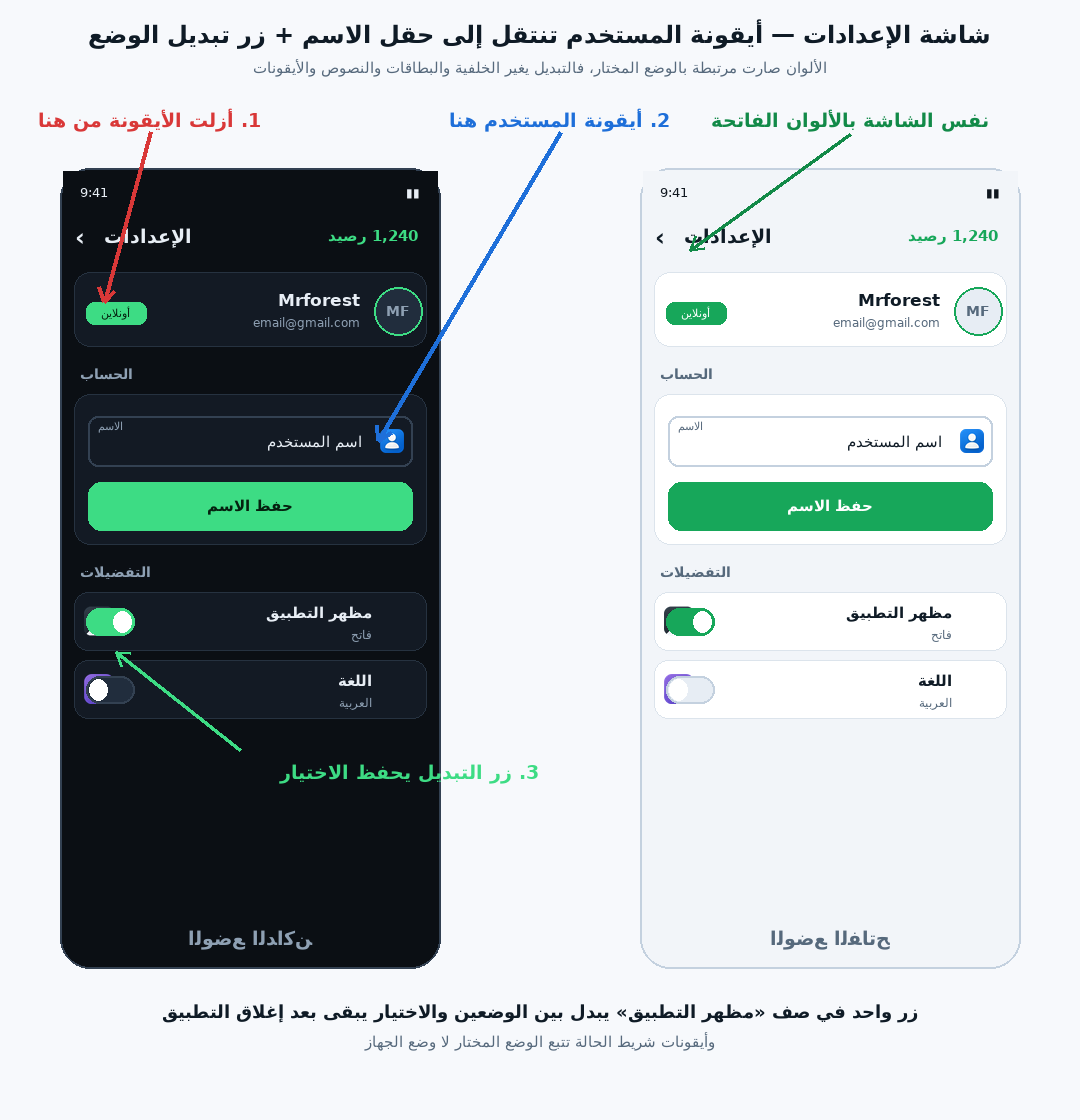
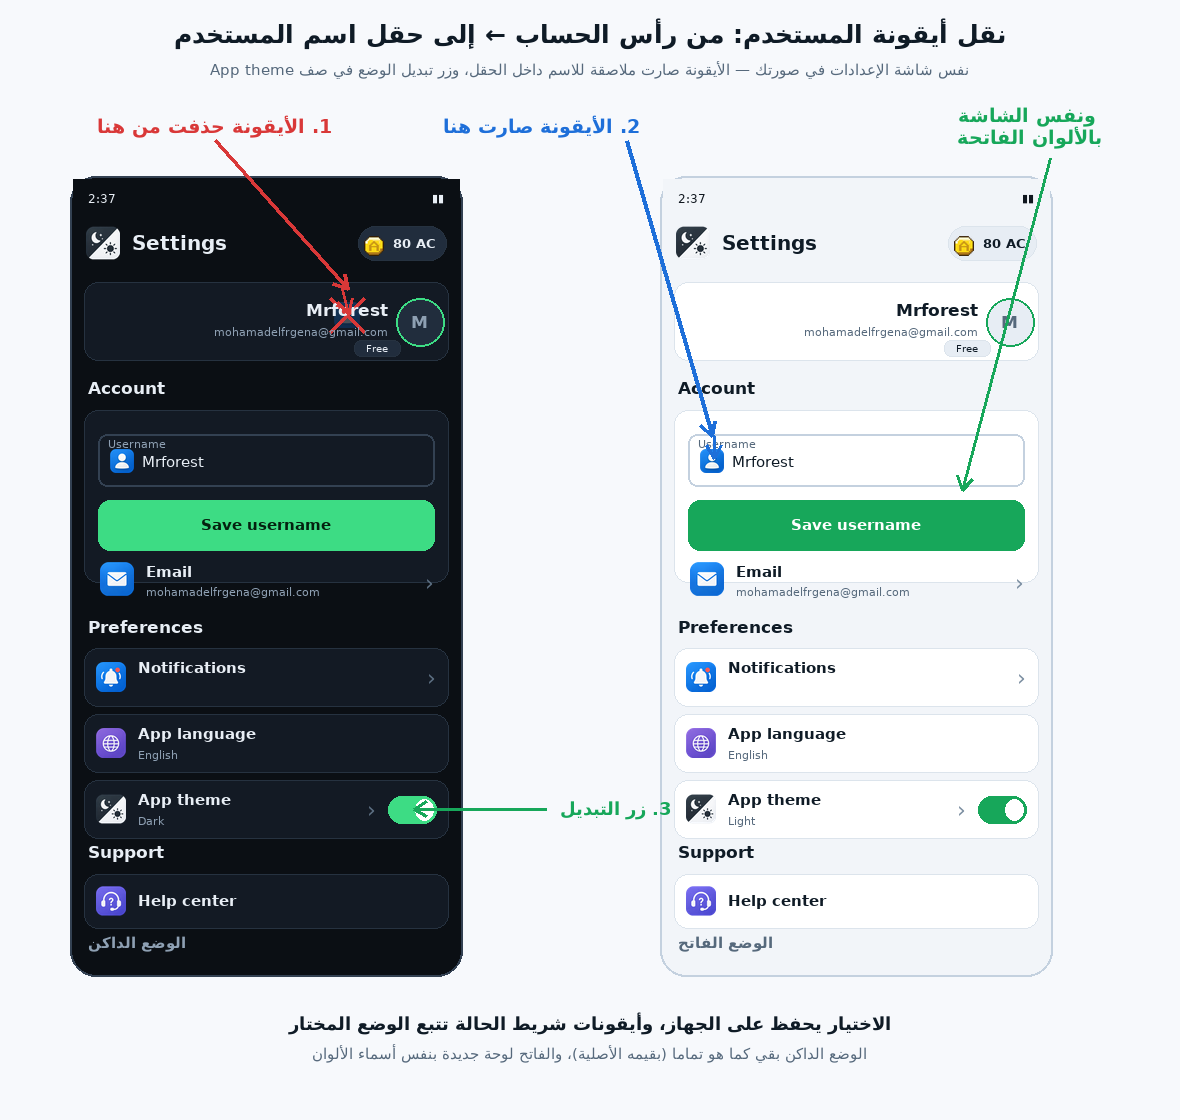
Redraw the theme-toggle preview to match the owner's screenshot
Same Settings screen and wording as the screenshot (English labels, the
same sections), with the three callouts: the removed user icon in the
account header, the icon now sitting right next to the typed username
inside the field, and the App theme toggle — plus the light palette.

diff --git a/tools/preview_theme_toggle.py b/tools/preview_theme_toggle.py
@@ -1,14 +1,13 @@
 #!/usr/bin/env python3
 # -*- coding: utf-8 -*-
-"""معاينة زر تبديل الوضع الداكن/الفاتح + نقل أيقونة المستخدم إلى حقل الاسم.
+"""معاينة نقل أيقونة المستخدم: من رأس الحساب ← إلى حقل اسم المستخدم + زر تبديل الوضع.
 
-يرسم نفس شاشة الإعدادات مرّتين:
-  1) بالوضع الداكن (الألوان كما هي في وثيقة التصميم).
-  2) بالوضع الفاتح (اللوحة الفاتحة الجديدة) — لإثبات أن التبديل يغيّر كل
-     الألوان فعلاً (الخلفية، البطاقات، النصوص، الأيقونات، شريط الحالة).
-ويضع أسهماً مطابقة للقبّطة: الأحمر عند رأس الحساب (أُزيلت منه الأيقونة)،
-والأزرق عند حقل تغيير الاسم (صارت أيقونة المستخدم بجواره).
-المصدر: Color.kt · Theme.kt · SettingsScreen.kt · AppNav.kt
+المحاكاة تطابق شاشة الإعدادات في لقطة المالك (نفس النصوص الإنجليزية ونفس الترتيب):
+  ① رأس الحساب: الأيقونة أُزيلت (يظهر مكانها ظلّها عليه خط أحمر).
+  ② حقل Username: أيقونة المستخدم صارت ملاصقة لاسم المستخدم المكتوب داخل الحقل.
+  ③ صف App theme: مفتاح تبديل فوري بين Dark و Light (والاختيار يُحفظ).
+ويمينها نفس الشاشة بالألوان الفاتحة لإثبات أن تبديل الوضع يغيّر كل الألوان.
+المصدر: SettingsScreen.kt · Color.kt · Theme.kt · AppNav.kt
 """
 import math
 import os
@@ -29,15 +28,17 @@ DARK = {
     "bg": "#0B0F14", "surface": "#131A24", "elev": "#1A2330", "elev2": "#212D3D",
     "border": "#263240", "border2": "#334152", "text": "#E8EEF5", "muted": "#8EA0B3",
     "dim": "#5C6F82", "green": "#3DDC84", "green2": "#2FAE67", "ongreen": "#04210F",
+    "blue": "#6FB8FF",
 }
 LIGHT = {
     "bg": "#F2F5F9", "surface": "#FFFFFF", "elev": "#FFFFFF", "elev2": "#E7EDF4",
     "border": "#DCE4EC", "border2": "#C4D1DF", "text": "#0F1B26", "muted": "#56697C",
     "dim": "#7B8EA1", "green": "#17A75A", "green2": "#128A48", "ongreen": "#FFFFFF",
+    "blue": "#1E6FD9",
 }
 
-W, H, TOP = 380, 800, 168
-RED, BLUE = "#D93838", "#1E6FD9"
+W, H, TOP = 392, 800, 176
+RED, BLUE, GRN = "#D93838", "#1E6FD9", "#17A75A"
 img = None
 d = None
 
@@ -61,105 +62,139 @@ def arrow(x1, y1, x2, y2, color, w=4):
         d.line([(x2, y2), (x2 - 15 * math.cos(a - s), y2 - 15 * math.sin(a - s))], fill=color, width=w)
 
 
-def note(x, y, color, text, anchor="mm"):
-    d.text((x, y), rtl(text), font=font(19, True), fill=color, anchor=anchor)
+def note(x, y, color, text, anchor="mm", size=19):
+    d.text((x, y), rtl(text), font=font(size, True), fill=color, anchor=anchor)
 
 
-def screen(x0, pal, mode, dark=True):
-    """هاتف بهيئة الوضع المطلوب (نفس المحتوى في اللقطتين)."""
-    w = W
-    x1 = x0 + w
-    rounded((x0, TOP, x1, TOP + H), 30, fill=pal["bg"], outline=pal["border2"], width=2)
+def icon(name, size):
+    im = Image.open(os.path.join(DRAW, name + ".png")).convert("RGBA")
+    return im.resize((size, size), Image.LANCZOS)
 
-    # شريط الحالة: أيقوناته تتبع الوضع (داكنة فوق خلفية فاتحة)
-    d.rectangle((x0 + 3, TOP + 3, x1 - 3, TOP + 46), fill=pal["bg"])
+
+def screen(x0, pal, dark=True, show_ghost=True):
+    """هاتف بنفس أقسام شاشة الإعدادات في لقطة المالك."""
+    x1 = x0 + W
+    rounded((x0, TOP, x1, TOP + H), 26, fill=pal["bg"], outline=pal["border2"], width=2)
+    d.rectangle((x0 + 3, TOP + 3, x1 - 3, TOP + 44), fill=pal["bg"])
     stat = pal["text"] if dark else "#10171F"
-    d.text((x0 + 20, TOP + 24), "9:41", font=font(13), fill=stat, anchor="lm")
-    d.text((x1 - 20, TOP + 24), "▮▮", font=font(12), fill=stat, anchor="rm")
+    d.text((x0 + 18, TOP + 22), "2:37", font=font(12), fill=stat, anchor="lm")
+    d.text((x1 - 18, TOP + 22), "▮▮", font=font(11), fill=stat, anchor="rm")
 
-    y = TOP + 46
-    d.text((x0 + 20, y + 22), "‹", font=font(24, True), fill=pal["text"], anchor="mm")
-    d.text((x0 + 44, y + 22), rtl("الإعدادات"), font=font(19, True), fill=pal["text"], anchor="lm")
-    d.text((x1 - 22, y + 22), rtl("1,240 رصيد"), font=font(15, True), fill=pal["green"], anchor="rm")
-    d.text((x0 + w // 2, TOP + H - 30), rtl(mode), font=font(19, True), fill=pal["muted"], anchor="mm")
+    y = TOP + 44
+    # شريط التطبيق
+    gb = icon("ic_set_appearance", 34)
+    img.paste(gb, (int(x0 + 16), int(y + 6)), gb)
+    d.text((x0 + 62, y + 23), "Settings", font=font(20, True), fill=pal["text"], anchor="lm")
+    rounded((x1 - 104, y + 6, x1 - 16, y + 40), 18, fill=pal["elev2"], outline=pal["border"])
+    coin = icon("coin_ac", 20)
+    img.paste(coin, (int(x1 - 98), int(y + 16)), coin)
+    d.text((x1 - 26, y + 23), "80 AC", font=font(13, True), fill=pal["text"], anchor="rm")
+    y += 62
+
+    # ① رأس الحساب — بلا أيقونة المستخدم (مكانها ظاهر بخط أحمر)
+    head_y = y
+    rounded((x0 + 14, y, x1 - 14, y + 78), 14, fill=pal["surface"], outline=pal["border"])
+    d.ellipse((x1 - 66, y + 16, x1 - 18, y + 64), fill=pal["elev2"], outline=pal["green"], width=2)
+    d.text((x1 - 42, y + 40), "M", font=font(17, True), fill=pal["muted"], anchor="mm")
+    # ظلّ الأيقونة القديمة + خط أحمر = مكانها الذي حُذفت منه
+    if show_ghost:
+        gh = icon("ic_user", 26).copy()
+        gh.putalpha(gh.getchannel("A").point(lambda v: int(v * 0.25)))
+        img.paste(gh, (int(x1 - 128), int(y + 20)), gh)
+        d.line([(x1 - 132, y + 16), (x1 - 98, y + 50)], fill=RED, width=3)
+        d.line([(x1 - 98, y + 16), (x1 - 132, y + 50)], fill=RED, width=3)
+    d.text((x1 - 74, y + 28), "Mrforest", font=font(17, True), fill=pal["text"], anchor="rm")
+    d.text((x1 - 74, y + 50), "mohamadelfrgena@gmail.com", font=font(11), fill=pal["muted"], anchor="rm")
+    rounded((x1 - 108, y + 58, x1 - 62, y + 74), 7, fill=pal["elev2"], outline=pal["border"])
+    d.text((x1 - 85, y + 66), "Free", font=font(10), fill=pal["text"], anchor="mm")
+    y += 100
+
+    # ② بطاقة الحساب — حقل اسم المستخدم وأيقونته ملاصقة للاسم
+    d.text((x0 + 18, y), "Account", font=font(17, True), fill=pal["text"], anchor="lt")
+    y += 28
+    rounded((x0 + 14, y, x1 - 14, y + 172), 14, fill=pal["surface"], outline=pal["border"])
+    fy = y + 50
+    d.rounded_rectangle((x0 + 28, fy - 26, x1 - 28, fy + 26), radius=9, outline=pal["border2"], width=2)
+    d.text((x0 + 38, fy - 16), "Username", font=font(11), fill=pal["muted"], anchor="lm")
+    # الأيقونة ملاصقة لاسم المستخدم المكتوب داخل الحقل
+    ic = icon("ic_user", 24)
+    img.paste(ic, (int(x0 + 40), int(fy - 11)), ic)
+    d.text((x0 + 72, fy + 2), "Mrforest", font=font(15), fill=pal["text"], anchor="lm")
+    y += 90
+    rounded((x0 + 28, y, x1 - 28, y + 50), 12, fill=pal["green"])
+    d.text(((x0 + x1) // 2, y + 25), "Save username", font=font(15, True), fill=pal["ongreen"], anchor="mm")
+    y += 62
+    em = icon("ic_set_email", 34)
+    img.paste(em, (int(x0 + 30), int(y)), em)
+    d.text((x0 + 76, y + 10), "Email", font=font(15, True), fill=pal["text"], anchor="lm")
+    d.text((x0 + 76, y + 30), "mohamadelfrgena@gmail.com", font=font(11), fill=pal["muted"], anchor="lm")
+    d.text((x1 - 32, y + 20), "›", font=font(22), fill=pal["dim"], anchor="mm")
     y += 58
 
-    # ① رأس الحساب — بلا أيقونة المستخدم
-    head_y = y
-    rounded((x0 + 14, y, x1 - 14, y + 74), 16, fill=pal["surface"], outline=pal["border"])
-    d.ellipse((x1 - 66, y + 15, x1 - 18, y + 63), fill=pal["elev2"], outline=pal["green"], width=2)
-    d.text((x1 - 42, y + 39), "MF", font=font(14, True), fill=pal["muted"], anchor="mm")
-    d.text((x1 - 80, y + 28), rtl("Mrforest"), font=font(17, True), fill=pal["text"], anchor="rm")
-    d.text((x1 - 80, y + 50), "email@gmail.com", font=font(12), fill=pal["muted"], anchor="rm")
-    rounded((x0 + 26, y + 30, x0 + 86, y + 52), 8, fill=pal["green"])
-    d.text((x0 + 56, y + 41), rtl("أونلاين"), font=font(11), fill=pal["ongreen"], anchor="mm")
-    y += 96
-
-    # ② بطاقة الحساب: حقل اسم المستخدم + أيقونة المستخدم
-    d.text((x0 + 20, y), rtl("الحساب"), font=font(14, True), fill=pal["muted"], anchor="lt")
-    y += 26
-    rounded((x0 + 14, y, x1 - 14, y + 150), 16, fill=pal["surface"], outline=pal["border"])
-    fy = y + 46
-    d.rounded_rectangle((x0 + 28, fy - 24, x1 - 28, fy + 26), radius=10, outline=pal["border2"], width=2)
-    icon = Image.open(os.path.join(DRAW, "ic_user.png")).convert("RGBA").resize((24, 24), Image.LANCZOS)
-    img.paste(icon, (int(x1 - 60), int(fy - 11)), icon)
-    d.text((x1 - 78, fy + 2), rtl("اسم المستخدم"), font=font(15), fill=pal["text"], anchor="rm")
-    d.text((x0 + 38, fy - 14), rtl("الاسم"), font=font(11), fill=pal["muted"], anchor="lm")
-    rounded((x0 + 28, y + 88, x1 - 28, y + 136), 13, fill=pal["green"])
-    d.text(((x0 + x1) // 2, y + 112), rtl("حفظ الاسم"), font=font(15, True), fill=pal["ongreen"], anchor="mm")
-    field_y = fy
-    y += 172
-
-    # ③ زر التبديل في صف «مظهر التطبيق»
-    d.text((x0 + 20, y), rtl("التفضيلات"), font=font(14, True), fill=pal["muted"], anchor="lt")
-    y += 26
-    switch_y = y
-    for label, sub, on, icon_name in (
-        (("مظهر التطبيق", "فاتح", True, "ic_set_appearance")),
-        (("اللغة", "العربية", False, "ic_set_language")),
-    ):
+    # ③ التفضيلات: مفتاح التبديل في صف App theme
+    d.text((x0 + 18, y), "Preferences", font=font(17, True), fill=pal["text"], anchor="lt")
+    y += 28
+    switch_y = None
+    for name, sub, ic_name, on in (("Notifications", "", "ic_set_notifications", False),
+                                   ("App language", "English", "ic_set_language", False),
+                                   ("App theme", "Dark" if dark else "Light", "ic_set_appearance", True)):
         rounded((x0 + 14, y, x1 - 14, y + 58), 14, fill=pal["surface"], outline=pal["border"])
-        im = Image.open(os.path.join(DRAW, icon_name + ".png")).convert("RGBA").resize((30, 30), Image.LANCZOS)
-        img.paste(im, (int(x0 + 24), int(y + 14)), im)
-        d.text((x1 - 68, y + 21), rtl(label), font=font(15, True), fill=pal["text"], anchor="rm")
-        d.text((x1 - 68, y + 42), rtl(sub), font=font(12), fill=pal["muted"], anchor="rm")
-        tw, th, tx, ty = 48, 27, x0 + 26, y + 16
-        rounded((tx, ty, tx + tw, ty + th), th // 2,
-                fill=pal["green"] if on else pal["elev2"],
-                outline=None if on else pal["border2"], width=2)
-        d.ellipse((tx + (tw - 21 if on else 3), ty + 3, tx + (tw - 3 if on else 21), ty + 24), fill="#FFFFFF")
-        y += 68
-    return {"head": (x0 + 44, head_y + 30), "field": (x0 + w - 62, field_y),
-            "switch": (x0 + 50, switch_y + 30)}
+        im = icon(ic_name, 30)
+        img.paste(im, (int(x0 + 26), int(y + 14)), im)
+        d.text((x0 + 68, y + 20), name, font=font(15, True), fill=pal["text"], anchor="lm")
+        if sub:
+            d.text((x0 + 68, y + 41), sub, font=font(11), fill=pal["muted"], anchor="lm")
+        else:
+            d.text((x1 - 30, y + 29), "›", font=font(22), fill=pal["dim"], anchor="mm")
+        if name == "App theme":
+            switch_y = y + 29
+            tw, th, tx, ty = 48, 27, x1 - 74, y + 16
+            rounded((tx, ty, tx + tw, ty + th), th // 2, fill=pal["green"] if on else pal["elev2"],
+                    outline=None if on else pal["border2"], width=2)
+            d.ellipse((tx + (tw - 21 if on else 3), ty + 3, tx + (tw - 3 if on else 21), ty + 24), fill="#FFFFFF")
+            d.text((x1 - 86, y + 29), "›", font=font(22), fill=pal["dim"], anchor="rm")
+        y += 66
+
+    # الدعم
+    d.text((x0 + 18, y), "Support", font=font(17, True), fill=pal["text"], anchor="lt")
+    y += 28
+    rounded((x0 + 14, y, x1 - 14, y + 54), 14, fill=pal["surface"], outline=pal["border"])
+    hc = icon("ic_set_help", 30)
+    img.paste(hc, (int(x0 + 26), int(y + 12)), hc)
+    d.text((x0 + 68, y + 27), "Help center", font=font(15, True), fill=pal["text"], anchor="lm")
+    y += 62
+    d.text((x0 + 18, y), rtl("الوضع %s" % ("الداكن" if dark else "الفاتح")),
+           font=font(15, True), fill=pal["muted"], anchor="lt")
+
+    return {"ghost": (x1 - 114, head_y + 33), "field": (x0 + 52, fy), "switch": (x1 - 50, switch_y)}
 
 
 def main():
     global img, d
-    img = Image.new("RGB", (1080, 1120), "#F7F9FC")
+    img = Image.new("RGB", (1180, 1120), "#F7F9FC")
     d = ImageDraw.Draw(img)
-    d.text((540, 34), rtl("شاشة الإعدادات — أيقونة المستخدم تنتقل إلى حقل الاسم + زر تبديل الوضع"),
-           font=font(24, True), fill="#0F1B26", anchor="mm")
-    d.text((540, 68), rtl("الألوان صارت مرتبطة بالوضع المختار، فالتبديل يغيّر الخلفية والبطاقات والنصوص والأيقونات"),
+    d.text((590, 34), rtl("نقل أيقونة المستخدم: من رأس الحساب ← إلى حقل اسم المستخدم"),
+           font=font(25, True), fill="#0F1B26", anchor="mm")
+    d.text((590, 70), rtl("نفس شاشة الإعدادات في صورتك — الأيقونة صارت ملاصقة للاسم داخل الحقل، وزر تبديل الوضع في صف App theme"),
            font=font(15), fill="#56697C", anchor="mm")
 
-    left = screen(60, DARK, rtl("الوضع الداكن"), dark=True)
-    right = screen(640, LIGHT, rtl("الوضع الفاتح"), dark=False)
+    left = screen(70, DARK, dark=True)
+    right = screen(660, LIGHT, dark=False, show_ghost=False)
 
-    # ① سهم أحمر: الأيقونة أُزيلت من رأس الحساب
-    note(150, 120, RED, "1. أزلت الأيقونة من هنا")
-    arrow(150, 132, left["head"][0], left["head"][1], RED)
-    # ② سهم أزرق: أيقونة المستخدم بجانب حقل الاسم
-    note(560, 120, BLUE, "2. أيقونة المستخدم هنا")
-    arrow(560, 132, left["field"][0], left["field"][1], BLUE)
-    # ③ زر التبديل
-    note(left["switch"][0] + 170, left["switch"][1] + 150, "#3DDC84", "3. زر التبديل يحفظ الاختيار", anchor="lm")
-    arrow(left["switch"][0] + 130, left["switch"][1] + 128, left["switch"][0] + 6, left["switch"][1] + 30, "#3DDC84", w=3)
-    note(850, 120, "#128A48", "نفس الشاشة بالألوان الفاتحة")
-    arrow(850, 134, right["head"][0] + 6, right["head"][1] - 52, "#128A48", w=3)
+    note(215, 126, RED, "1. الأيقونة حُذفت من هنا")
+    arrow(215, 140, left["ghost"][0], left["ghost"][1] - 26, RED)
+    arrow(left["ghost"][0] - 6, left["ghost"][1] - 26, left["ghost"][0], left["ghost"][1] - 2, RED, w=3)
+    note(640, 126, BLUE, "2. الأيقونة صارت هنا", anchor="rm")
+    arrow(626, 140, right["field"][0], right["field"][1] - 24, BLUE)
+    arrow(right["field"][0] + 2, right["field"][1] - 24, right["field"][0] + 2, right["field"][1] - 2, BLUE, w=3)
+    note(560, left["switch"][1], GRN, "3. زر التبديل", anchor="lm", size=18)
+    arrow(546, left["switch"][1], left["switch"][0] + 2, left["switch"][1], GRN, w=3)
+    note(1030, 126, GRN, "ونفس الشاشة\nبالألوان الفاتحة")
+    arrow(1050, 158, right["field"][0] + 250, right["field"][1] + 30, GRN, w=3)
 
-    d.text((540, TOP + H + 44), rtl("زر واحد في صف «مظهر التطبيق» يبدّل بين الوضعين والاختيار يبقى بعد إغلاق التطبيق"),
+    d.text((590, TOP + H + 48), rtl("الاختيار يُحفظ على الجهاز، وأيقونات شريط الحالة تتبع الوضع المختار"),
            font=font(18, True), fill="#0F1B26", anchor="mm")
-    d.text((540, TOP + H + 74), rtl("وأيقونات شريط الحالة تتبع الوضع المختار لا وضع الجهاز"),
+    d.text((590, TOP + H + 78), rtl("الوضع الداكن بقي كما هو تماماً (بقيمه الأصلية)، والفاتح لوحة جديدة بنفس أسماء الألوان"),
            font=font(15), fill="#56697C", anchor="mm")
     img.save(OUT)
     print("✔", OUT, img.size)
